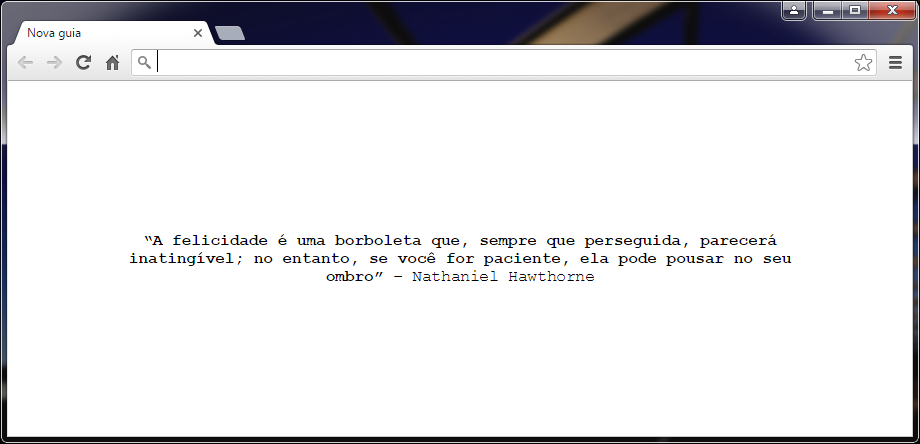
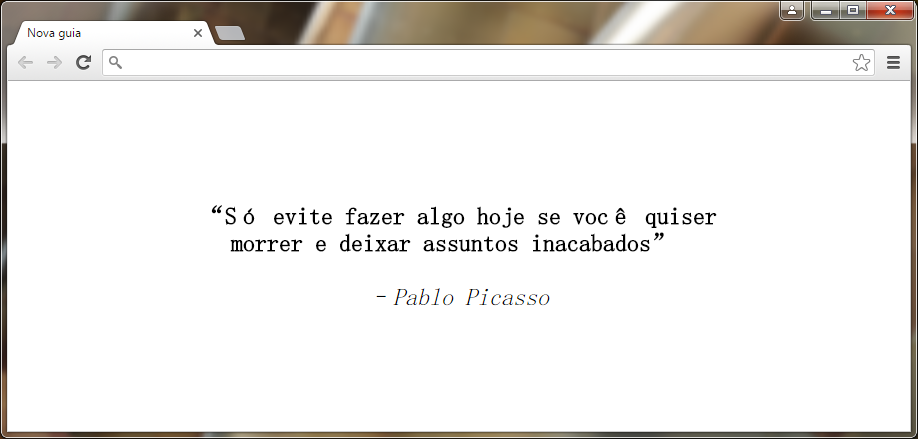
Nova imagem e algumas alterações

diff --git a/ReadMe.md b/ReadMe.md
@@ -2,4 +2,4 @@
 
 > A cada nova guia uma nova frase motivacional.
 
-![](https://raw.githubusercontent.com/theuves/motivacao/master/captura.png)
+![Exemplo](images/captura.png)
